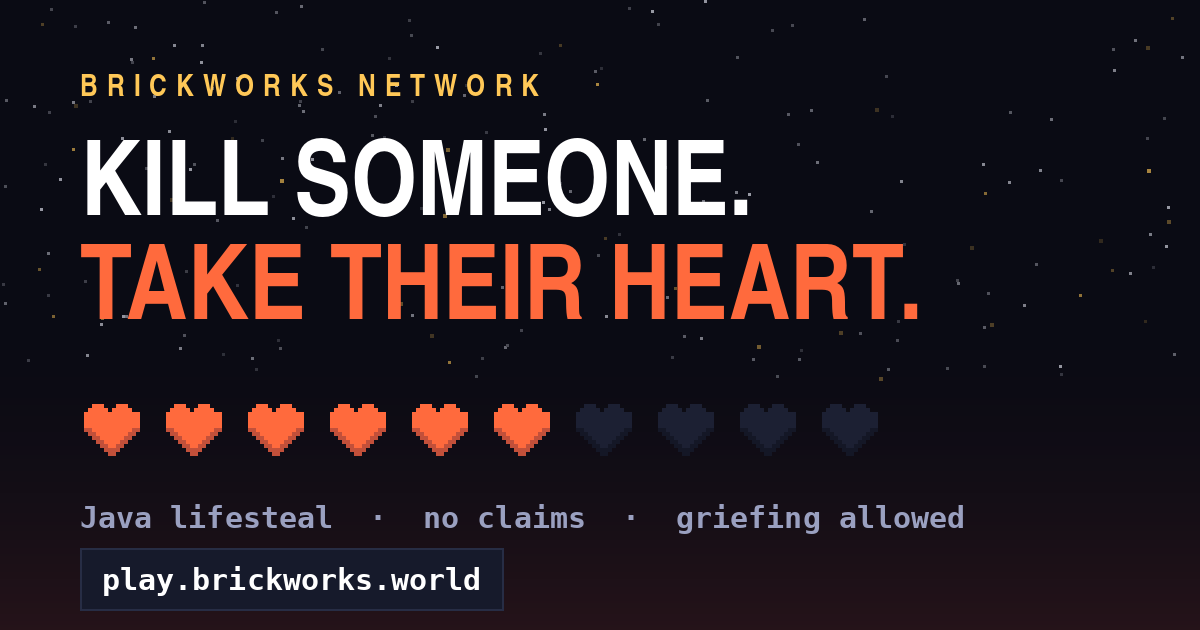
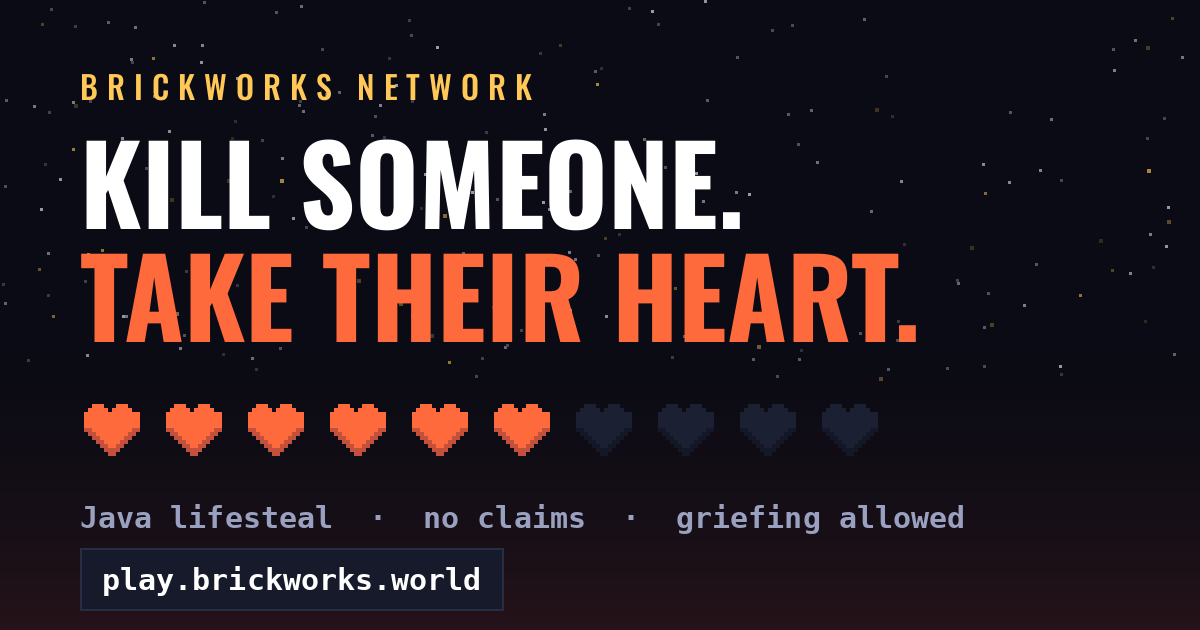
Give the headings a display face that was actually drawn
The old one was Nimbus Sans Narrow Bold — a mechanically condensed
Helvetica, which is why the headlines looked squashed and uneven. Oswald
is drawn condensed, and keeping its weight axis means the same file
carries a 700 headline and a 500 nav label instead of shouting at both.

size-adjust:105% lands its caps on the widths the layout was built
against, so no font-size on the page had to move; the headline just gets
taller and denser in the space it already had.

Changed region(s): [[0.0617, 0.2111, 0.7708, 0.5429], [0.0617, 0.1206, 0.4625, 0.181]]

diff --git a/index.html b/index.html
@@ -18,10 +18,18 @@
 <link rel="preload" href="fonts/bw-display.woff2" as="font" type="font/woff2" crossorigin>
 
 <style>
+/* Oswald, subset, with its weight axis kept so the display face can be heavy
+   in a headline and calm in a nav label. It draws narrower and much taller
+   than the face it replaced, so size-adjust puts the caps back on the widths
+   this page was laid out against — every font-size below still means what it
+   meant — and the metric overrides stop its very tall default line box from
+   inflating buttons and flex rows. The taller caps are the point: the
+   headline gets denser without getting wider. */
 @font-face{
   font-family:"BW Display";
   src:url("fonts/bw-display.woff2") format("woff2");
-  font-weight:700;font-style:normal;font-display:swap;
+  font-weight:500 700;font-style:normal;font-display:swap;
+  size-adjust:105%;ascent-override:86%;descent-override:20%;line-gap-override:0%;
 }
 
 /* This page commits to one visual world — dusk over the server. Every colour
@@ -48,7 +56,7 @@
   --violet:#8B5CF6;
   --brick:#D9533B;
 
-  --display:"BW Display","Helvetica Neue Condensed","Arial Narrow",system-ui,sans-serif;
+  --display:"BW Display",Oswald,"Helvetica Neue Condensed","Arial Narrow",system-ui,sans-serif;
   --body:ui-sans-serif,system-ui,-apple-system,"Segoe UI",Roboto,"Helvetica Neue",Arial,sans-serif;
   --mono:ui-monospace,SFMono-Regular,Menlo,Consolas,"DejaVu Sans Mono",monospace;
 
@@ -69,17 +77,21 @@ p{margin:0}
 
 /* The display face shouts, so only the two loudest levels use it uppercase:
    headlines and kickers. Sub-heads keep the face and drop the shouting. */
-h1,h2,h3{font-family:var(--display);font-weight:700;margin:0;line-height:.92}
+h1,h2,h3{font-family:var(--display);font-weight:700;margin:0;line-height:1.03}
 h1,h2{text-transform:uppercase}
-h1{font-size:clamp(2.5rem,.95rem + 4.7vw,4.15rem);letter-spacing:-.012em}
-h2{font-size:clamp(2.1rem,1.2rem + 3vw,3.6rem);letter-spacing:-.012em}
-h3{font-size:1.3rem;letter-spacing:.005em;line-height:1.05}
+h1{font-size:clamp(2.5rem,.95rem + 4.7vw,4.15rem);letter-spacing:-.008em}
+h2{font-size:clamp(2.1rem,1.2rem + 3vw,3.6rem);letter-spacing:-.008em}
+h3{font-size:1.3rem;letter-spacing:.005em;line-height:1.15}
 .hot{color:var(--ember)}
 .up{color:var(--grass)}
 .kicker{
   font-family:var(--display);font-size:.78rem;letter-spacing:.28em;
   text-transform:uppercase;color:var(--kiln);margin:0;
 }
+/* Everything else in the display face lands on the 500 floor, which is where
+   tracked labels and nav links want to be. These four have to carry more. */
+.btn,.ip button,.pill,.svc-name{font-weight:600}
+.brand span{font-weight:700}
 .wrap{max-width:var(--wrap);margin:0 auto;padding-inline:var(--pad)}
 .skip{position:absolute;left:-9999px;top:0;background:var(--panel);color:var(--white);
   padding:.8rem 1.1rem;z-index:99;font-family:var(--display);letter-spacing:.16em}

diff --git a/tools/og.py b/tools/og.py
@@ -11,12 +11,30 @@ NIGHT, EMBER, BRICK, KILN, WHITE, DIM = (
     (10, 11, 20), (255, 106, 61), (194, 80, 58), (255, 200, 87),
     (255, 255, 255), (154, 160, 192))
 
-# PIL can't open woff2, so the shipped webfont is decompressed to a temp OTF
+# PIL can't open woff2 or pick a weight off a variable font, so the shipped
+# webfont is decompressed and pinned to one weight per size we need.
 from fontTools.ttLib import TTFont  # noqa: E402
-_otf = os.path.join(tempfile.gettempdir(), "bw-display.otf")
-TTFont("fonts/bw-display.woff2").save(_otf)
-DISPLAY = _otf
+from fontTools.varLib import instancer  # noqa: E402
+
 MONO = "/usr/share/fonts/truetype/dejavu/DejaVuSansMono-Bold.ttf"
+# The page renders this face at size-adjust:105%; match it here.
+ADJUST = 1.05
+
+
+def display(px, weight):
+    """One static instance of the webfont, at the page's adjusted size."""
+    path = os.path.join(tempfile.gettempdir(), f"bw-display-{weight}.ttf")
+    if not os.path.exists(path):
+        f = TTFont("fonts/bw-display.woff2")
+        instancer.instantiateVariableFont(f, {"wght": weight}, inplace=True)
+        f.save(path)
+    return ImageFont.truetype(path, round(px * ADJUST))
+
+
+def cap_top(font, y):
+    """PIL draws from the ascender and this face has a very tall one, so
+    headline positions are given as the top of the capitals instead."""
+    return y - font.getbbox("H")[1]
 
 img = Image.new("RGB", (W, H), NIGHT)
 d = ImageDraw.Draw(img)
@@ -62,14 +80,14 @@ def heart(draw, x, y, cell, filled):
                            fill=main if ch == "#" else shade)
 
 
-kicker = ImageFont.truetype(DISPLAY, 30)
-head = ImageFont.truetype(DISPLAY, 104)
+kicker = display(30, 500)
+head = display(104, 700)
 mono = ImageFont.truetype(MONO, 30)
 
 PAD = 80
-tracked(d, (PAD, 74), "BRICKWORKS NETWORK", kicker, KILN, track=9)
-d.text((PAD, 140), "KILL SOMEONE.", font=head, fill=WHITE)
-d.text((PAD, 244), "TAKE THEIR HEART.", font=head, fill=EMBER)
+tracked(d, (PAD, cap_top(kicker, 74)), "BRICKWORKS NETWORK", kicker, KILN, track=9)
+d.text((PAD, cap_top(head, 140)), "KILL SOMEONE.", font=head, fill=WHITE)
+d.text((PAD, cap_top(head, 253)), "TAKE THEIR HEART.", font=head, fill=EMBER)
 
 # ten hearts, six of them yours: the lifesteal ledger in one row
 cell = 4

diff --git a/README.md b/README.md
@@ -21,6 +21,23 @@ Open `index.html` and edit it. That's the workflow.
 - **The heart ledger** in the hero is the page's one signature element: twenty
   slots, ten filled, and a single scripted pass on load showing a kill adding a
   heart and a death taking it back. It sits still under `prefers-reduced-motion`.
+- **The display face** is Oswald, subset to Latin-1 with its weight axis kept
+  between 500 and 700, so headings can be heavy and nav labels calm from one
+  21 KB file. `size-adjust:105%` in the `@font-face` block puts its caps back
+  on the widths the layout was built against — change it and every display size
+  on the page shifts. Rebuild it from the upstream variable font by clipping
+  the axis first, then subsetting:
+  ```
+  python3 -c "from fontTools.ttLib import TTFont; from fontTools.varLib import \
+    instancer; f = TTFont('Oswald[wght].ttf'); \
+    instancer.instantiateVariableFont(f, {'wght': (500, 600, 700)}, inplace=True); \
+    f.save('oswald-500-700.ttf')"
+  python3 -m fontTools.subset oswald-500-700.ttf \
+    --unicodes='U+0020-007E,U+00A0-00FF,U+2013-2014,U+2018-201D,U+2022,U+2026,U+00B7,U+00D7,U+2190,U+2192' \
+    --layout-features='kern,liga,ccmp,mark,mkmk,locl' \
+    --flavor=woff2 --output-file=fonts/bw-display.woff2
+  ```
+  Re-run `python3 tools/og.py` after any font change; the card uses the same file.
 - **The pixel icons** (hearts, feature tiles, `og.png`) all come from one set of
   16x16 masks in `tools/icons.py`, which prints an SVG sprite. Edit a mask as
   ASCII art, re-run it, and paste the sprite back into `index.html`.
